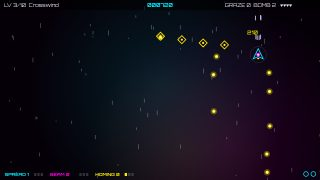
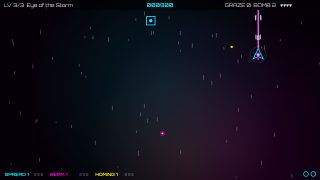
Give Plasma Storm three levels and a blooming-eye ending (mi3)
Three levels and three bosses: First Sparks (drones, spinners, weavers;
EMBER), Cyclone Front (lancers, darts, turrets, mines; CYCLONE) and Eye of
the Storm (wardens and prisms join everything, parting shots; THE EYE in
four phases). Pattern densities, kits and pacing are retuned for 1..3, the
ten-level tables are gone, and the ending blooms THE EYE into plasma
petals and rings of sparks under the fireworks.

Claude-Session: https://claude.ai/code/session_016R86i3evNakTHXcnyVkEfD

diff --git a/internal/generator/templates/themes/plasma/game.js b/internal/generator/templates/themes/plasma/game.js
@@ -2,7 +2,9 @@
  * Plasma Storm — the plasma theme's game: a vertical bullet-hell shooter.
  *
  * Enemies arrive in scripted waves and fill the sky with aimed, radial and
- * spiral bullet patterns; every level ends with a boss that fights in phases.
+ * spiral bullet patterns; each of the three levels ends with a boss that
+ * fights in phases, and THE EYE at the end of level 3 blooms into the
+ * finale's plasma fireworks.
  * Holding fire slows the ship and shows its tiny hitbox, so the player can
  * thread through the gaps. Passing close to a bullet ("graze") scores and
  * slowly earns bombs. Killed enemies drop plasma orbs that cycle through three
@@ -32,42 +34,38 @@
     var MAX_BULLETS = 700, MAX_BOMBS = 5, MAX_WEAPON = 3;
     var LANE_W = 26, LANE_WARN = 1.0, LANE_LIVE = 0.55;
     var CROWD = 12;                        // more enemies than this hold the next wave back
+    var FINALE = 3;                        // the last level: the storm's eye
     var WEAPONS = ['spread', 'beam', 'homing'];
     var WCOL = { spread: CY, beam: MG, homing: YL };
 
     // One string per level; each word is a wave, each letter a squad that
-    // arrives with it. Every level introduces the letter it leads with, and
-    // later levels put more squads into a wave.
+    // arrives with it. Level 1 teaches drones, spinners and weavers; level 2
+    // brings lancers, darts, turrets and mines; level 3 adds wardens and
+    // prisms to everything, with more squads to a wave.
     var WAVES = [
-        'd d d dd d dd',
-        's d ds d ss dd sd dss sdd',
-        'w d ws sd wd ww sdw wsd wws',
-        'l d ls w ld lw sdw ws ll',
-        't dw tw ls ts tl dwl tt lsd tws',
-        'a dw as wl al at aws aad ts ald awt',
-        'm ad mdw st mtl ml mad mws mma tlm msw',
-        'g dw gwa ma gad gl gt gsm gma gtd mwl gla',
-        'p ad pd gw pw pm pl pt pga ptd gma psl',
-        'pd gt am lw ps dg ma pp wtd gla pm gs sa ptl'
+        'd d s ds w dw sd sdw',
+        'l a ld t as lw m dm ta ml lsa tmw',
+        'g p gd pw ga pm gl pt gsa pdm gtl pmw'
     ];
     var LETTER = { d: 'drone', s: 'spinner', w: 'weaver', l: 'lancer', t: 'turret', a: 'dart', m: 'mine', g: 'warden', p: 'prism' };
 
     // A boss fights through its phases in order; each phase runs one or more
     // of the PATTERNS below at the same time and owns an equal share of hp.
-    // The hp is tuned so that every boss outlasts the one before it; the last
-    // step is a small one, because THE EYE's four phases are already the
-    // hardest patterns in the game.
+    // Each boss has one phase more than the last and teaches what the next
+    // one combines: EMBER fans and rings, CYCLONE crosses, lances and
+    // spirals, THE EYE all of it with curving rings and a summoned swarm.
     var BOSSES = [
-        { name: 'EMBER', hp: 420, phases: [['fan'], ['rings']] },
-        { name: 'CORONA', hp: 900, phases: [['rings'], ['fan', 'rain']] },
-        { name: 'GALE', hp: 1000, phases: [['spiral'], ['fan', 'rings']] },
-        { name: 'LANCER PRIME', hp: 1000, phases: [['fan', 'rain'], ['spiral'], ['rings', 'fan']] },
-        { name: 'CYCLONE', hp: 1300, phases: [['cross'], ['lances', 'rain'], ['spiral', 'fan']] },
-        { name: 'HORNET QUEEN', hp: 1600, phases: [['summon', 'fan'], ['cross'], ['rings', 'rain']] },
-        { name: 'DETONATOR', hp: 1850, phases: [['curve'], ['lances', 'rings'], ['cross', 'fan']] },
-        { name: 'ION WARDEN', hp: 2000, phases: [['lances', 'fan'], ['spiral', 'rain'], ['curve', 'lances']] },
-        { name: 'PRISM HEART', hp: 2500, phases: [['curve', 'fan'], ['cross', 'rain'], ['lances', 'spiral'], ['curve', 'rings']] },
-        { name: 'THE EYE', hp: 2700, phases: [['lances', 'curve'], ['cross', 'rain'], ['spiral', 'fan'], ['summon', 'rings', 'lances']] }
+        { name: 'EMBER', hp: 320, phases: [['fan'], ['rings']] },
+        { name: 'CYCLONE', hp: 1200, phases: [['cross'], ['lances', 'rain'], ['spiral', 'fan']] },
+        { name: 'THE EYE', hp: 2200, phases: [['lances', 'curve'], ['cross', 'rain'], ['spiral', 'fan'], ['summon', 'rings', 'lances']] }
+    ];
+
+    // The weapons a level starts with: weapon levels do not carry over
+    // (each level starts from init), so later levels hand out a kit.
+    var KITS = [
+        { spread: 0, beam: 0, homing: 0 },
+        { spread: 1, beam: 0, homing: 0 },
+        { spread: 1, beam: 1, homing: 1 }
     ];
 
     // ------------------------------------------------------------------
@@ -139,7 +137,7 @@
 
     // Drones low on the screen hold fire: a point-blank aimed shot is not fair.
     function fireDrone(e, s) {
-        if (e.y < 380) fan(s, e, s.level >= 5 ? 3 : 1, 0.26, 170, MG);
+        if (e.y < 380) fan(s, e, s.level >= 2 ? 3 : 1, 0.26, 170, MG);
     }
 
     // Slides to its post, holds it for def.stay seconds, then retreats upward.
@@ -157,7 +155,7 @@
     }
 
     function fireSpinner(e, s) {
-        ring(s, e.x, e.y, 10 + s.level, 115, e.age, CY);
+        ring(s, e.x, e.y, 10 + s.level * 2, 115, e.age, CY);
         G.tone(520, 0.08, { type: 'triangle', slide: 260, vol: 0.06 });
     }
 
@@ -253,7 +251,7 @@
     function addEnemy(s, type, x, y, o) {
         var d = TYPES[type], e = {
             type: type, squad: s.squad, x: x, y: y, x0: x, ty: y, ph: 0, dir: 1, delay: 0, age: 0, flash: 0, lock: 0,
-            hp: Math.ceil(d.hp * (1 + (s.level - 1) * 0.08)),
+            hp: Math.ceil(d.hp * (1 + (s.level - 1) * 0.2)),
             cool: d.rate * (d.first || 0.4 + s.rnd() * 0.6)
         };
         for (var k in o) e[k] = o[k];
@@ -268,7 +266,7 @@
             for (var i = 0; i < 4 + n; i++) addEnemy(s, 'drone', x, -30 - i * 40, { ph: ph - i * 0.75 });
         },
         s: function (s) {
-            for (var i = 0; i < (s.level >= 6 ? 2 : 1); i++) addEnemy(s, 'spinner', 120 + s.rnd() * 720, -30, { ty: 90 + s.rnd() * 100 });
+            for (var i = 0; i < (s.level >= FINALE ? 2 : 1); i++) addEnemy(s, 'spinner', 120 + s.rnd() * 720, -30, { ty: 90 + s.rnd() * 100 });
         },
         w: function (s, n) {
             var dir = s.rnd() < 0.5 ? 1 : -1, ty = 70 + s.rnd() * 110;
@@ -279,7 +277,7 @@
             addEnemy(s, 'lancer', 580 + s.rnd() * 220, -30, { ty: 80 });
         },
         t: function (s) {
-            for (var i = 0; i < (s.level >= 9 ? 2 : 1); i++) addEnemy(s, 'turret', 200 + s.rnd() * 560, -30);
+            for (var i = 0; i < (s.level >= FINALE ? 2 : 1); i++) addEnemy(s, 'turret', 200 + s.rnd() * 560, -30);
         },
         a: function (s, n) {
             for (var i = 0; i < 3 + n; i++) addEnemy(s, 'dart', 80 + s.rnd() * 800, -20, { ty: 50 + s.rnd() * 40, delay: i * 0.4 });
@@ -314,10 +312,10 @@
         // only) hands out enough orbs to merge; the rest drop by chance.
         var last = d.swarm && !s.enemies.some(function (o) { return o !== e && !o.gone && o.squad === e.squad; });
         if (last || s.rnd() < d.drop) dropOrb(s, e.x, e.y);
-        // The storm's eye: on the last level every wreck fires one parting
+        // The storm's eye: on the finale every wreck fires one parting
         // shot, unless it died too close for that to be dodgeable. The shot
         // is slower than a drone's: a swarm dying at once fires a whole volley.
-        if (s.level === 10 && s.stage !== 'outro' && e.y < s.p.y - 200) fan(s, e, 1, 0, 150, MG, { r: 4 });
+        if (s.level === FINALE && s.stage !== 'outro' && e.y < s.p.y - 200) fan(s, e, 1, 0, 150, MG, { r: 4 });
     }
 
     function damage(s, e, dmg) {
@@ -363,25 +361,25 @@
     var PATTERNS = {
         fan: function (s, b, dt) {
             if (!every(b, 'fan', 0.9 / s.k, dt)) return;
-            // Nine is the widest fan that still leaves room beside a spiral.
-            fan(s, b, Math.min(9, 5 + 2 * Math.floor(s.level / 3)), 0.17, 185, MG);
+            // 5, 7, 9 wide: nine is the widest that leaves room beside a spiral.
+            fan(s, b, 3 + 2 * s.level, 0.17, 185, MG);
             G.tone(700, 0.1, { type: 'sawtooth', slide: 250, vol: 0.06 });
         },
         rings: function (s, b, dt) {
             if (!every(b, 'rings', 1.1 / s.k, dt)) return;
-            var n = 14 + s.level * 3;
+            var n = 14 + s.level * 4;
             b.flip = !b.flip;
             ring(s, b.x, b.y, n, 125, b.flip ? 0 : Math.PI / n, CY);
             G.tone(420, 0.12, { type: 'triangle', slide: 210, vol: 0.07 });
         },
         spiral: function (s, b, dt) {
-            // Five arms at most: a sixth closes the gaps a casual player can
-            // still steer through at the last levels' bullet speed.
-            if (every(b, 'spiral', 0.09, dt)) ring(s, b.x, b.y, Math.min(5, 3 + Math.floor(s.level / 3)), 150, b.age * 1.9, YL);
+            // Five arms at most (level 3): a sixth closes the gaps a casual
+            // player can still steer through at the finale's bullet speed.
+            if (every(b, 'spiral', 0.09, dt)) ring(s, b.x, b.y, 2 + s.level, 150, b.age * 1.9, YL);
         },
         cross: function (s, b, dt) {
             if (!every(b, 'cross', 0.13, dt)) return;
-            var arms = 2 + Math.floor(s.level / 5);
+            var arms = 1 + s.level;
             ring(s, b.x, b.y, arms, 150, b.age * 2.1, YL);
             ring(s, b.x, b.y, arms, 130, -b.age * 2.1, YL);
         },
@@ -392,7 +390,7 @@
         curve: function (s, b, dt) {
             if (!every(b, 'curve', 1.5 / s.k, dt)) return;
             b.flip = !b.flip;
-            ring(s, b.x, b.y, 10 + s.level, 135, b.age, CY, { w: b.flip ? 0.55 : -0.55 });
+            ring(s, b.x, b.y, 10 + s.level * 3, 135, b.age, CY, { w: b.flip ? 0.55 : -0.55 });
             G.tone(560, 0.14, { type: 'sine', slide: 1120, vol: 0.07 });
         },
         lances: function (s, b, dt) {
@@ -468,7 +466,7 @@
     // ------------------------------------------------------------------
 
     function spawnWave(s, word) {
-        var n = Math.floor(s.level / 3);
+        var n = s.level - 1;          // extra ships per swarm squad
         for (var i = 0; i < word.length; i++) { s.squad++; SPAWN[word.charAt(i)](s, n); }
     }
 
@@ -487,7 +485,7 @@
         // every enemy leaves the screen by itself sooner or later.
         if (s.waveT > 0 || s.enemies.length > CROWD) return;
         spawnWave(s, s.waves[s.wave++]);
-        s.waveT = Math.max(3.3, 6.2 - s.level * 0.36);
+        s.waveT = 6.2 - s.level * 0.8;
     }
 
     function outro(s, dt) {
@@ -642,9 +640,9 @@
         G.tone(1568, 0.25, { type: 'triangle', vol: 0.14, delay: 0.1 });
     }
 
-    // A merge on a weapon already at its top level is paid in points. It used
-    // to be a bomb, but late levels shower orbs on a maxed ship: eight to ten
-    // extra bombs made level 10 easier than level 9.
+    // A merge on a weapon already at its top level is paid in points, not in
+    // a bomb: the finale showers orbs on a maxed ship, and a bomb for each
+    // would make it easier than the level before.
     function payMerge(s) {
         G.addScore(2000 * s.level);
         G.popup(s.p.x, s.p.y - 26, '+' + 2000 * s.level, FG);
@@ -787,30 +785,20 @@
         return stars;
     }
 
-    // Weapon levels do not carry over between levels (each level starts from
-    // init), so later levels hand out a starting kit instead.
-    function kit(level) {
-        return {
-            spread: level >= 9 ? 2 : (level >= 2 ? 1 : 0),
-            homing: level >= 5 ? 1 : 0,
-            beam: level >= 7 ? 1 : 0
-        };
-    }
-
     // A phone: its main pointer is a finger, and the engine shows the pad.
     function coarse() {
         return G.isTouch();
     }
 
-    // Fire rates and bullet speeds rise 4.5% per level (k), a slope gentle
-    // enough that level 10 is still readable at an average player's reactions.
+    // Fire rates and bullet speeds rise 10% per level (k), a slope gentle
+    // enough that the finale is still readable at an average player's reactions.
     function init(level) {
-        var rnd = G.rng(level * 7919 + 13), touch = coarse(), k = 1 + (level - 1) * 0.045;
+        var rnd = G.rng(level * 7919 + 13), touch = coarse(), k = 1 + (level - 1) * 0.1;
         return {
             level: level, rnd: rnd, touch: touch, drag: null,
             k: k, bk: k * (touch ? TOUCH_BULLETS : 1),           // k scales fire rates, bk bullet speed
             p: { x: G.W / 2, y: G.H - 70, inv: 1.5, cool: 0, missile: 0, lean: 0, focus: false },
-            lv: kit(level), orbs: { spread: 0, beam: 0, homing: 0 },
+            lv: Object.assign({}, KITS[level - 1]), orbs: { spread: 0, beam: 0, homing: 0 },
             bombs: 3, bombT: 0, graze: 0, struck: false, beamOn: false,
             shots: [], bullets: [], enemies: [], drops: [], lanes: [],
             waves: WAVES[level - 1].split(' '), wave: 0, squad: 0,
@@ -895,7 +883,7 @@
     }
 
     function drawBoss(s, ctx) {
-        var b = s.boss, sides = 3 + s.level % 6;
+        var b = s.boss, sides = 2 + s.level * 2;   // a square, a hexagon, an octagon
         if (!b || (b.dead && Math.sin(G.t * 50) > 0)) return;
         ctx.globalAlpha = b.hold > 0 ? 0.55 + 0.3 * Math.sin(b.age * 22) : 1;
         ctx.lineWidth = 4;
@@ -1098,6 +1086,47 @@
 
     function hud(s) { return 'GRAZE ' + s.graze + '  BOMB ' + s.bombs; }
 
+    // The ending: THE EYE blooms. Twelve plasma petals open around its core
+    // and a ring of sparks leaves it every 0.7 s, cycling the three colours.
+    // Everything follows from e.t, so the scene needs no state of its own.
+    var BLOOM_X = G.W / 2, BLOOM_Y = 270, PETALS = 12, RING_GAP = 0.7, RING_DOTS = 24;
+
+    function drawPetals(ctx, t) {
+        var open = Math.min(1, t / 1.6), len = 40 + 110 * open;
+        for (var i = 0; i < PETALS; i++) {
+            var a = i * TAU / PETALS + t * 0.25, col = [CY, MG, YL][i % 3];
+            ctx.globalAlpha = 0.28 + 0.14 * Math.sin(t * 3 + i);
+            ctx.fillStyle = col;
+            ctx.beginPath();
+            ctx.ellipse(BLOOM_X + Math.cos(a) * len * 0.55, BLOOM_Y + Math.sin(a) * len * 0.55, len * 0.5, 9 + 7 * open, a, 0, TAU);
+            ctx.fill();
+        }
+        ctx.globalAlpha = 1;
+        blob(ctx, BLOOM_X, BLOOM_Y, 60 + 12 * Math.sin(t * 4), '255,238,0', 0.8);
+    }
+
+    function drawRings(ctx, t) {
+        for (var k = Math.max(0, Math.floor((t - 2.4) / RING_GAP)); k * RING_GAP <= t; k++) {
+            var age = t - k * RING_GAP, r = age * 230;
+            ctx.globalAlpha = Math.max(0, 1 - age / 2.4);
+            ctx.fillStyle = [CY, MG, YL][k % 3];
+            ctx.beginPath();
+            for (var i = 0; i < RING_DOTS; i++) {
+                var a = i * TAU / RING_DOTS + k * 0.4;
+                ctx.rect(BLOOM_X + Math.cos(a) * r - 3, BLOOM_Y + Math.sin(a) * r * 0.8 - 3, 6, 6);
+            }
+            ctx.fill();
+        }
+        ctx.globalAlpha = 1;
+    }
+
+    var ENDING = {
+        title: 'STORM BROKEN',
+        text: 'The Eye blooms into plasma fireworks.',
+        colors: [CY, MG, YL, FG],
+        draw: function (e, ctx) { drawRings(ctx, e.t); drawPetals(ctx, e.t); }
+    };
+
     G.register('plasma', {
         title: 'PLASMA STORM',
         blurb: 'Thread the bullet storm, merge plasma orbs into weapons, break the boss.',
@@ -1107,7 +1136,7 @@
             'Phone: it fires by itself · drag on the screen (or the pad) to steer · SLOW for fine moves',
             'Orbs change colour: three alike upgrade cyan SPREAD · magenta BEAM · yellow HOMING'
         ],
-        levelNames: ['First Sparks', 'Ring Lightning', 'Crosswind', 'Lancers', 'Spiral Front', 'Dart Swarm', 'Minefield', 'Ion Gates', 'Prism Bloom', 'Eye of the Storm'],
+        levelNames: ['First Sparks', 'Cyclone Front', 'Eye of the Storm'],
         colors: { bg: BG, fg: FG, accent: CY, dim: '#9a8fc0' },
         // Four lives: the late bosses cost an average player two or three.
         lives: 4,
@@ -1124,7 +1153,7 @@
             drums: { k: 'x...x...x...x.x.', s: '....x.......x...', h: 'x.xxx.xxx.xxx.xx' },
             leadWave: 'sawtooth', bassWave: 'sawtooth', arpWave: 'square', leadOct: 1
         },
-        init: init, update: update, draw: draw, hud: hud,
+        init: init, update: update, draw: draw, hud: hud, ending: ENDING,
         // The full 8-way pad. A is SLOW, not fire: on a phone the ship fires
         // by itself, so A only does the other half of what SPACE does.
         touch: { a: 'SLOW', b: 'BOMB' }

diff --git a/integrationtests/games/plasma-bot.js b/integrationtests/games/plasma-bot.js
@@ -1,6 +1,6 @@
 (function () {
     var G = SnoGame, wins = [];
-    for (var level of [1, 5, 10]) {
+    for (var level of [1, 2, 3]) {
         G.debug.start(level);
         var ticks = 0, bombHeld = false;
         while (ticks < 30000 && G.debug.state().screen === 'play') {
@@ -43,6 +43,6 @@
         }
         wins.push({ level: level, screen: G.debug.state().screen, ticks: ticks, lives: G.lives });
     }
-    G.debug.start(10); G.debug.step(30000, {});
+    G.debug.start(1); G.debug.step(30000, {});
     return { wins: wins, idle: G.debug.state().screen, errors: G.debug.errors.slice() };
 })()

diff --git a/docs/games.md b/docs/games.md
@@ -629,8 +629,17 @@ moves slower and its small hitbox is shown, for threading bullets), `X` bomb
 (clears bullets, limited). Enemies arrive in scripted waves
 with bullet patterns (aimed, radial, spiral). Collect plasma orbs: three of a
 colour merge into a weapon upgrade (spread / beam / homing). Each level ends
-with a boss with a health bar and phases. Levels: denser patterns, new enemy
-types, tougher bosses. Small hitbox, generous graze. Fast driving minor music.
+with a boss with a health bar and phases, each boss one phase longer than the
+last. Small hitbox, generous graze (every 40 grazes earn a bomb). Levels:
+1 *First Sparks* — drones, spinners and weavers, then EMBER (aimed fans,
+rings); 2 *Cyclone Front* — lancers, dashing darts, turrets and mines, a
+spread gun to start with, then CYCLONE (crosses, warning-lit lances with
+rain, spirals with fans); 3 *Eye of the Storm* — wardens with lane beams and
+prisms with curving fans join everything, every wreck fires a parting shot,
+the ship starts with spread, beam and homing, and THE EYE fights four phases
+ending in a summoned swarm. The ending: THE EYE blooms into plasma petals and
+rings of sparks under cyan, magenta and yellow fireworks ("STORM BROKEN").
+Fast driving minor music.
 
 ### retro — Carrier Lost (gravity-flip runner)
 Amber monochrome. A data packet runs automatically along a phone line
